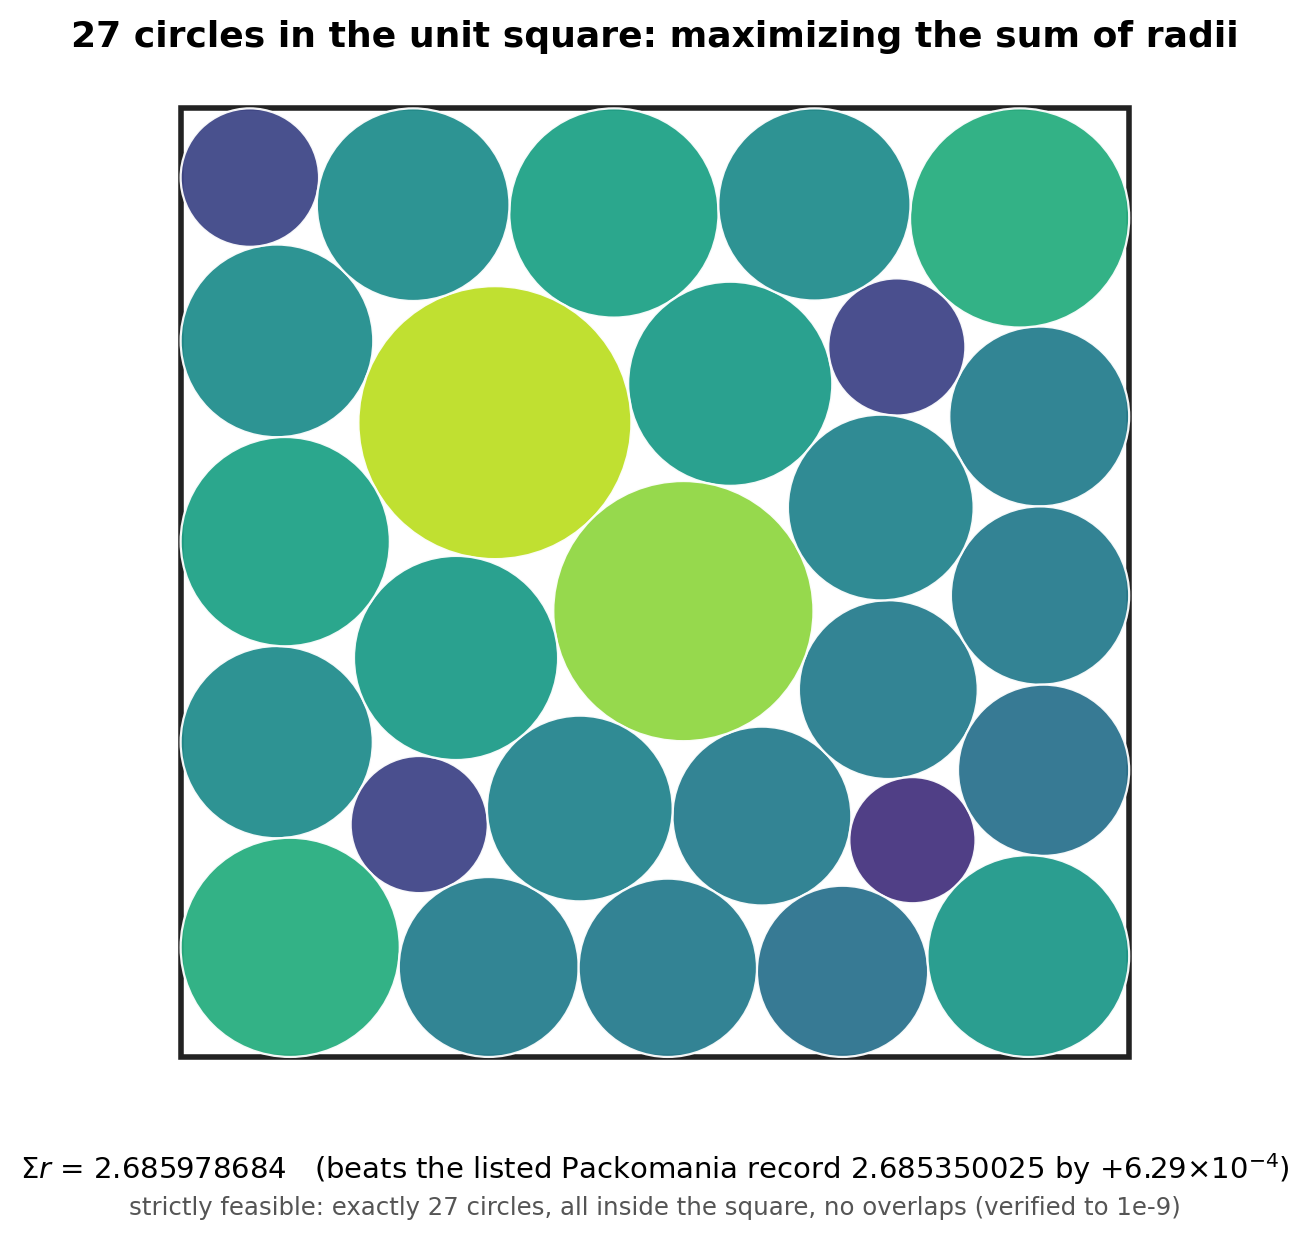
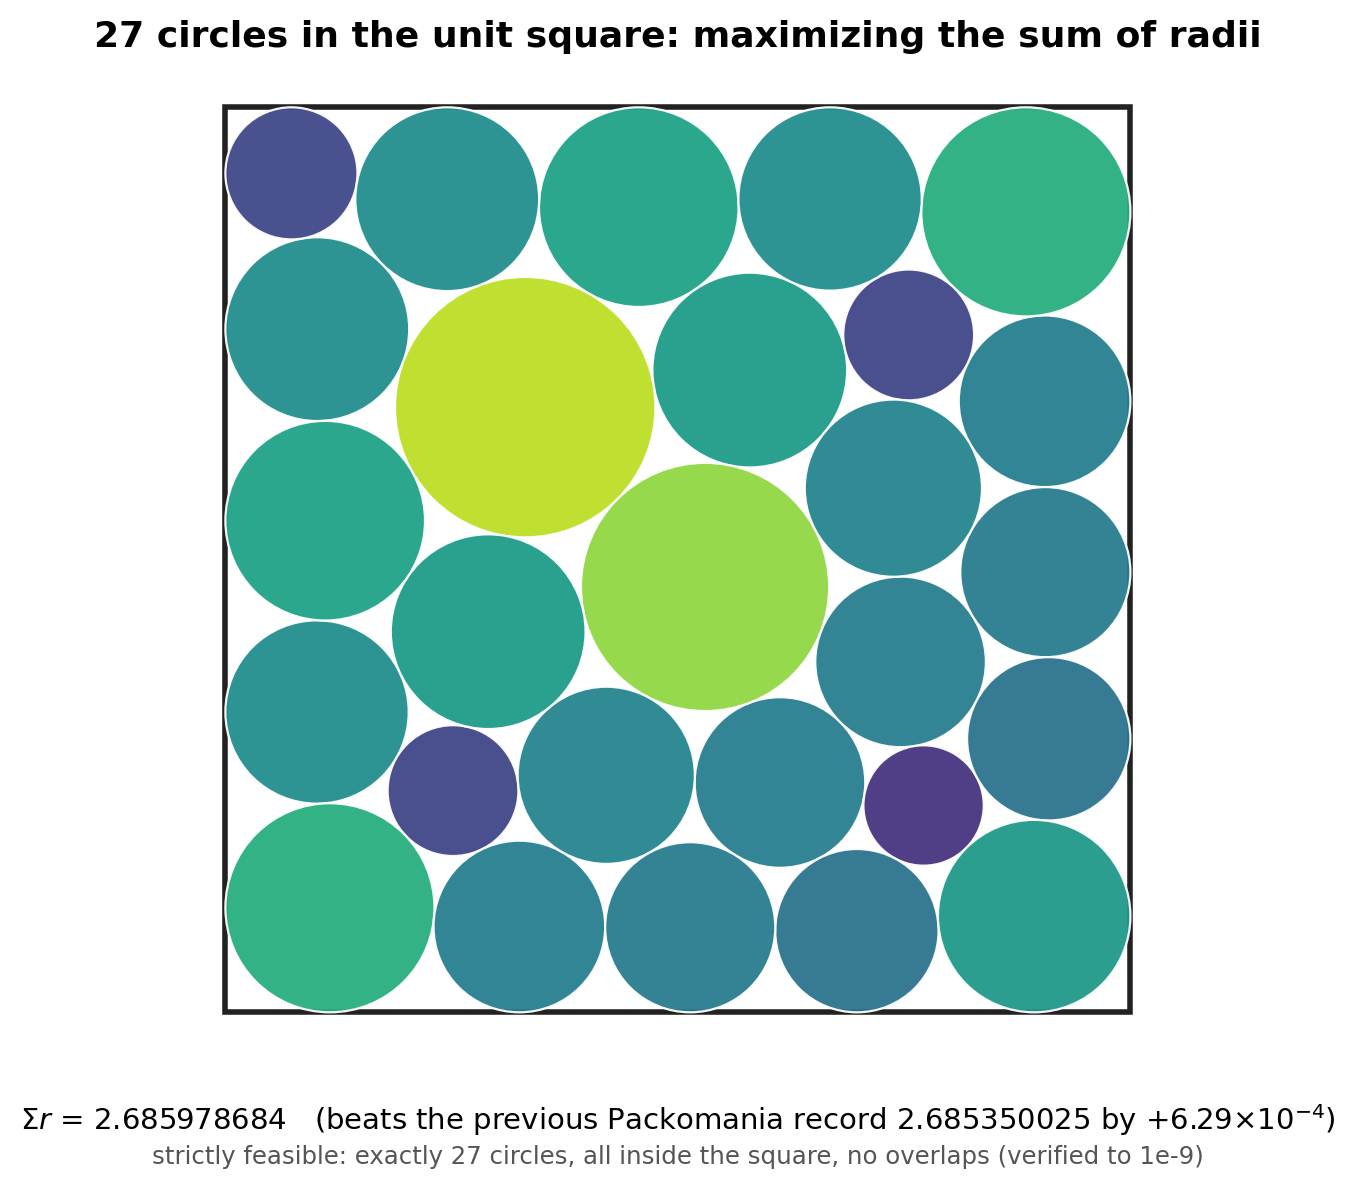
writeup: N=27 record accepted on Packomania; add previous-vs-new comparison figure
- Packomania accepted the N=27 result as the live record (Sigma r 2.685978684198,
  credited to Jason Liang, ref [11], superseding Cantrell's 2011/12 entry, noted
  there for its D1 symmetry). Update the write-up from "prepared a submission" to
  the accepted/listed record; relabel the old value as the "previous record"
  throughout (text + figures); drop the AlphaEvolve/ShinkaEvolve names from the
  scope caveat.
- Replace fig3_emergence.png with the study report's Figure 2 (richer n=27
  emergence: 50-seed spread, best-of-50, seed-1, hit rate), rasterized from
  reports/fig_circle_n27_iters.pdf; make_figs.py no longer regenerates fig3.
- Add fig4_prev_vs_new.png: side-by-side of the previous record value vs the new
  record, both drawn with their shared D1 mirror axis and colored mirror-pairs.
  The previous-value packing (Sigma r 2.685350025, matching Cantrell's value to
  ~1e-11) is one our own solver also reaches; Cantrell's exact coordinates are not
  public. Generator writeup/make_compare_fig.py; data writeup/prev_value_packing.json.
- Main README: make the write-up link prominent ("Start here"); remove em-dashes.

diff --git a/writeup/make_figs.py b/writeup/make_figs.py
@@ -1,8 +1,9 @@
 #!/usr/bin/env python3
 """Write-up visuals for the N=27 circle-packing result. All data read from the repo's own
-committed artifacts (sota/ours/...); the only hand-entered numbers are the per-iteration
-emergence table (fig 3), transcribed from the SI-v2 study report. Run from anywhere:
-    python3 writeup/make_figs.py    ->  regenerates writeup/fig1..3."""
+committed artifacts (sota/ours/...). Generates fig1 (the record packing) and fig2 (the
+N=2..100 sweep vs Packomania). fig3_emergence.png is the SI-v2 study report's Figure 2,
+rasterized in separately and NOT regenerated here. Run from anywhere:
+    python3 writeup/make_figs.py    ->  regenerates writeup/fig1_n27_packing.png and fig2_sweep_gap.png."""
 import json, os, re, math
 import numpy as np
 import matplotlib
@@ -11,12 +12,12 @@ import matplotlib.pyplot as plt
 from matplotlib.patches import Circle, Rectangle
 
 HERE = os.path.dirname(os.path.abspath(__file__))
-SOTA = os.path.dirname(HERE)          # repo root (this script lives in blog/)
+SOTA = os.path.dirname(HERE)          # repo root (this script lives in writeup/)
 OUT = HERE                            # write the figures next to this script
 os.makedirs(OUT, exist_ok=True)
 
-RECORD = 2.685350025228          # Packomania csqv27 baseline record
-WIN    = 2.685978684198          # our verified Sigma r
+RECORD = 2.685350025228          # Packomania csqv27 previous record (Cantrell, 2011/12)
+WIN    = 2.685978684198          # our verified Sigma r (now the listed record)
 
 # ----------------------------------------------------------------------------- fig 1: the packing
 d = json.load(open(f"{SOTA}/sota/ours/wins/csqv27.seed1.json"))
@@ -38,7 +39,7 @@ ax.set_aspect("equal"); ax.axis("off")
 ax.set_title("27 circles in the unit square: maximizing the sum of radii",
              fontsize=13, fontweight="bold", pad=12)
 ax.text(0.5, -0.065,
-        f"$\\Sigma r$ = {WIN:.9f}   (beats the listed Packomania record {RECORD:.9f} by +6.29$\\times10^{{-4}}$)",
+        f"$\\Sigma r$ = {WIN:.9f}   (beats the previous Packomania record {RECORD:.9f} by +6.29$\\times10^{{-4}}$)",
         ha="center", va="top", fontsize=10.5, transform=ax.transAxes)
 ax.text(0.5, -0.11, "strictly feasible: exactly 27 circles, all inside the square, no overlaps (verified to 1e-9)",
         ha="center", va="top", fontsize=8.8, color="#555555", transform=ax.transAxes)
@@ -68,7 +69,7 @@ ax.scatter(Nk[~ties], gk[~ties], s=26, c="#c0504d", zorder=3, label="below recor
 ax.scatter(Nk[ties], gk[ties], s=30, c="#4f81bd", zorder=3, label="tie (matches best-known, $\\sim10^{-11}$)")
 win_i = np.where(Nk == 27)[0][0]
 ax.scatter([27], [gk[win_i]], s=220, marker="*", c="#2e8b57", edgecolor="black",
-           lw=0.7, zorder=5, label="N=27: beats the listed record")
+           lw=0.7, zorder=5, label="N=27: beats the previous record")
 ax.annotate("N = 27  WIN", xy=(27, gk[win_i]), xytext=(34, 0.28),
             fontsize=10.5, fontweight="bold", color="#2e8b57",
             arrowprops=dict(arrowstyle="->", color="#2e8b57", lw=1.4))
@@ -84,49 +85,6 @@ plt.savefig(f"{OUT}/fig2_sweep_gap.png", dpi=200, bbox_inches="tight")
 plt.close()
 print(f"fig2: {len(Nk)} sizes plotted; ties={ties.sum()}; N=27 gap={gk[win_i]:+.4f}%")
 
-# ----------------------------------------------------------------------------- fig 3: emergence over iterations
-# transcribed from the SI-v2 report, Table 'Per-version n=27 outcomes over 50 seeds (120s each)'
-it       = [1, 2, 3, 4, 5]
-best     = [2.685979]*5                   # best of 50 seeds -> the record-beating win (constant)
-median   = [2.685157]*5                   # typical single run (constant, just below the record)
-hit_pct  = [10, 10, 12, 14, 14]           # % of 50 seeds that beat the record
-xlab = ["iter 1\n$2.48", "iter 2\n$5.95", "iter 3\n$9.79", "iter 4\n$14.82", "iter 5-10\n$21.36"]
-
-fig, (axA, axB) = plt.subplots(2, 1, figsize=(8.8, 6.4), sharex=True,
-                               gridspec_kw={"height_ratios": [2.1, 1.0], "hspace": 0.12})
-
-# top panel: Sigma r vs iteration (direct right-side labels; no in-plot legend to obscure the data)
-axA.axhline(WIN, color="#2e8b57", ls=":", lw=1.0, alpha=0.4, zorder=1)
-axA.plot(it, best, "-o", color="#2e8b57", lw=2.6, ms=9, zorder=5)
-axA.axhline(RECORD, color="#c0504d", ls="--", lw=1.7, zorder=2)
-axA.plot(it, median, "-s", color="#7f7f7f", lw=1.8, ms=6, zorder=4)
-axA.text(5.18, WIN,    "best of 50 starts\n= the WIN  2.685979", color="#2e8b57",
-         va="center", fontsize=8.6, fontweight="bold")
-axA.text(5.18, RECORD + 0.00003, "record  2.685350", color="#c0504d", va="bottom", fontsize=8.6)
-axA.text(5.18, median[0], "median run  2.685157\n(a typical start\ndoes not beat it)", color="#5f5f5f",
-         va="center", fontsize=8.2)
-axA.annotate("present from\niteration 1", xy=(1, WIN), xytext=(1.75, 2.685740),
-             fontsize=9, color="#2e8b57", ha="center",
-             arrowprops=dict(arrowstyle="->", color="#2e8b57", lw=1.3))
-axA.set_ylim(2.68500, 2.68612)
-axA.set_xlim(0.5, 7.0)
-axA.set_ylabel("sum of radii  $\\Sigma r$", fontsize=11)
-axA.set_title("The record-beating capability appears early; more self-improvement buys reliability, not the peak",
-              fontsize=11.5, fontweight="bold")
-axA.grid(True, axis="y", ls=":", alpha=0.35)
-
-# bottom panel: per-seed hit rate
-axB.bar(it, hit_pct, width=0.55, color="#4f81bd", alpha=0.85)
-for x, h in zip(it, hit_pct):
-    axB.text(x, h + 0.5, f"{h}%", ha="center", color="#28527a", fontsize=9)
-axB.set_ylim(0, 20)
-axB.set_xlim(0.5, 7.0)
-axB.set_ylabel("hit rate\n(% of 50 starts\nbeating record)", fontsize=9.5)
-axB.set_xticks(it); axB.set_xticklabels(xlab, fontsize=9.2)
-axB.set_xlabel("solver version (self-improvement iteration)   ·   cumulative $ spent improving the solver",
-               fontsize=10.3, x=0.36)
-axB.grid(True, axis="y", ls=":", alpha=0.35)
-plt.savefig(f"{OUT}/fig3_emergence.png", dpi=200, bbox_inches="tight")
-plt.close()
-print("fig3: emergence written")
-print("ALL FIGURES WRITTEN TO", OUT)
+# fig 3 (writeup/fig3_emergence.png) is the SI-v2 study report's Figure 2, rasterized in
+# separately from reports/fig_circle_n27_iters.pdf and NOT regenerated here.
+print("fig1 + fig2 written to", OUT)

diff --git a/writeup/make_compare_fig.py b/writeup/make_compare_fig.py
@@ -1,0 +1,72 @@
+#!/usr/bin/env python3
+"""Side-by-side N=27: the previous record value vs our new record, both drawn with their
+D1 mirror axis (X+Y=1) and mirror-pairs colored. Left = a packing at the previous record's
+Sigma r (2.685350) found by our own solver (seed 1); Cantrell's exact 2011/12 coordinates
+are not public, so this stands in for the previous optimum at that value. Right = our record.
+    python3 writeup/make_compare_fig.py  ->  writeup/fig4_prev_vs_new.png"""
+import json, os
+import numpy as np
+import matplotlib
+matplotlib.use("Agg")
+import matplotlib.pyplot as plt
+from matplotlib.patches import Circle, Rectangle
+
+HERE = os.path.dirname(os.path.abspath(__file__))
+SOTA = os.path.dirname(HERE)
+
+def load(p):
+    d = json.load(open(p)); return np.array(d["circles"]), d["sum_radii"]
+
+prev, sp = load(f"{HERE}/prev_value_packing.json")
+ours, so = load(f"{SOTA}/sota/ours/wins/csqv27.seed1.json")
+
+def pairs_axis(C, tol=1.5e-3):
+    """Mirror pairs and on-axis circles for the reflection (x,y)->(1-y,1-x) [axis X+Y=1]."""
+    n = len(C); used = [False]*n; pairs = []; axis = []
+    for i in range(n):
+        if used[i]: continue
+        xi, yi, ri = C[i]
+        if abs(xi + yi - 1) < tol:
+            axis.append(i); used[i] = True; continue
+        for j in range(n):
+            if used[j] or j == i: continue
+            if abs(C[j,0]-(1-yi)) < tol and abs(C[j,1]-(1-xi)) < tol and abs(C[j,2]-ri) < tol:
+                pairs.append((i, j)); used[i] = used[j] = True; break
+        else:
+            axis.append(i); used[i] = True
+    return pairs, axis
+
+def draw(ax, C, title, sub):
+    pairs, axis = pairs_axis(C)
+    ax.add_patch(Rectangle((0, 0), 1, 1, fill=False, lw=2.0, ec="#222222"))
+    pal = plt.cm.tab20(np.linspace(0, 1, max(len(pairs), 1)))
+    col = {}
+    for k, (i, j) in enumerate(pairs):
+        col[i] = pal[k]; col[j] = pal[k]
+    for i, (x, y, r) in enumerate(C):
+        c = col.get(i, (0.72, 0.72, 0.72, 1.0))     # on-axis circles: grey
+        ax.add_patch(Circle((x, y), r, facecolor=c, edgecolor="white", lw=0.7, alpha=0.92))
+    ax.plot([0, 1], [1, 0], color="#c0392b", ls="--", lw=1.5, zorder=6)     # mirror axis X+Y=1
+    ax.text(0.90, 0.14, "mirror axis", color="#c0392b", fontsize=8.5, rotation=-45,
+            ha="center", va="center", zorder=7)
+    ax.set_xlim(-0.03, 1.03); ax.set_ylim(-0.03, 1.03); ax.set_aspect("equal"); ax.axis("off")
+    ax.set_title(title, fontsize=12.5, fontweight="bold", pad=8)
+    ax.text(0.5, -0.055, sub, ha="center", va="top", fontsize=10, transform=ax.transAxes)
+    return len(pairs), len(axis)
+
+fig, axes = plt.subplots(1, 2, figsize=(12.6, 6.9))
+pa = draw(axes[0], prev, "Previous record value",
+          f"$\\Sigma r$ = {sp:.9f}")
+pb = draw(axes[1], ours, "New record (now listed on Packomania)",
+          f"$\\Sigma r$ = {so:.9f}   (+6.29$\\times10^{{-4}}$)")
+fig.suptitle("N=27: the previous record value vs the new record (both D1-symmetric; mirror-pairs share a color)",
+             fontsize=12.5, fontweight="bold", y=0.98)
+fig.text(0.5, 0.03,
+         "Left: a packing at the previous record's $\\Sigma r$ (2.685350), found by our own solver; "
+         "Cantrell's exact 2011/12 coordinates are not public. Right: our record packing.",
+         ha="center", fontsize=8.6, color="#555555")
+plt.tight_layout(rect=[0, 0.05, 1, 0.95])
+plt.savefig(f"{HERE}/fig4_prev_vs_new.png", dpi=200, bbox_inches="tight")
+plt.close()
+print(f"prev: {pa[0]} pairs + {pa[1]} on-axis;  ours: {pb[0]} pairs + {pb[1]} on-axis")
+print("wrote", f"{HERE}/fig4_prev_vs_new.png")

diff --git a/writeup/README.md b/writeup/README.md
@@ -2,15 +2,15 @@
 
 *[Cognizant AI Lab](https://www.cognizant.com/us/en/ai-lab) · research note*
 
-**The problem:** fit N circles of any sizes into a square, without overlaps, and make the total of all their radii (the "sum of radii") as large as possible. It sounds small, but it is a genuinely hard optimization problem that has become a public benchmark for AI. **What happened:** an AI coding agent at Cognizant AI Lab that repeatedly rewrites and re-tests its own solver found a 27-circle arrangement that beats the value listed in Packomania, the standard reference table for this problem.
+**The problem:** fit N circles of any sizes into a square, without overlaps, and make the total of all their radii (the "sum of radii") as large as possible. It sounds small, but it is a genuinely hard optimization problem that has become a public benchmark for AI. **What happened:** an AI coding agent at Cognizant AI Lab that repeatedly rewrites and re-tests its own solver found a 27-circle arrangement that is now the listed record in Packomania, the standard reference table for this problem, beating an entry that had stood since 2011/12.
 
 ---
 
 ## Key takeaways
 
-- A self-improving AI coding agent at Cognizant AI Lab wrote an optimizer that found a **new best-known** packing of 27 circles in a square, beating the value listed in Packomania, the field's authoritative reference table.
+- A self-improving AI coding agent at Cognizant AI Lab wrote an optimizer that found a **new best-known** packing of 27 circles in a square. It is **now the listed record in Packomania** (the field's authoritative reference table), beating a previous entry that had stood since 2011/12.
 
-- The new configuration has sum of radii **2.685978684198** versus the listed **2.685350025228**, an improvement of **+0.000628658970 (+0.023%)**. It is a fixed, strictly-feasible artifact that anyone can independently verify from its coordinates.
+- The new configuration has sum of radii **2.685978684198** versus the previous record **2.685350025228**, an improvement of **+0.000628658970 (+0.023%)**. It is a fixed, strictly-feasible artifact that anyone can independently verify from its coordinates.
 
 - **Honest scope:** the entry we beat is a *long-standing classical entry* in Packomania's table (a 2011/12 result), **NOT** one of the recent AI-optimized results from systems like Google DeepMind's AlphaEvolve or Sakana AI's ShinkaEvolve. On the famous N=26 case we *tie* the recent AI-optimized best-known value there (2.635983); we do not beat it.
 
@@ -32,7 +32,7 @@ We took a solver that one of our self-improvement experiments produced and ran i
 
 ![Our solver vs the Packomania records across N=2..100](fig2_sweep_gap.png)
 
-*Our solver vs the authoritative Packomania records across N=2 to N=100. It ties 26 records at small/mid sizes, trails on large boards (our compute budget, not a ceiling), and beats the listed record at N=27 (a small but real +0.023%).*
+*Our solver vs the authoritative Packomania records across N=2 to N=100. It ties 26 records at small/mid sizes, trails on large boards (our compute budget, not a ceiling), and beats the previous record at N=27 (a small but real +0.023%, now the listed record).*
 
 For small and mid-sized boards the solver reproduces the known optima essentially exactly (matching 26 of them to about one part in 100 billion). For large boards it falls short of the heavily hand-tuned records, from a fraction of a percent up to about 2.3% (largest at N=92); on one size, N=97, a single run failed to return a valid packing at all. But those gaps reflect our modest compute budget, not a ceiling of the method. And at one size, it did something the reference table had not: it found a better packing.
 
@@ -45,7 +45,7 @@ At N=27, our solver produced a strictly-feasible packing with sum of radii:
 | | sum of radii |
 |---|---|
 | **ours** | **2.685978684198** |
-| listed (Packomania's standing record) | 2.685350025228 |
+| previous record (Cantrell, 2011/12) | 2.685350025228 |
 | **gain** | **+0.000628658970  (+0.023%)** |
 
 ![The record-beating N=27 packing](fig1_n27_packing.png)
@@ -56,7 +56,11 @@ At N=27, our solver produced a strictly-feasible packing with sum of radii:
 
 The scope matters, and we state it plainly. Packomania lists, for each N, the best value anyone has submitted. The N=27 entry we improved is a *long-standing classical entry*, a 2011/12 result (attributed to D. W. Cantrell on the sci.math forum) that predates the recent AI systems, not one of the AI-optimized entries. On the most-studied case, N=26 (the size AlphaEvolve made famous as its showcase result), the best-known value is 2.635983, a recent AI-optimized entry (credited to Haowei Lin, 2026); there, our agent *matches* that number but does not beat it. So this is a genuine, verifiable improvement to a standing reference value, not a claim to have dethroned AlphaEvolve or ShinkaEvolve. Small, but real, and the kind of thing that, until recently, only a human expert or a purpose-built research program would produce.
 
-We have prepared a submission of the N=27 packing to Packomania's maintainer for review; the artifact stands on its own regardless of how it was produced.
+The N=27 packing is now the listed record on [Packomania](https://www.packomania.com/csqv/csqv.html): it was accepted and credited to Jason Liang (reference [11]), superseding the entry by David Cantrell, and the site notes its "remarkable D1 symmetry" (a single mirror axis). The artifact stands on its own regardless of how it was produced.
+
+![Previous record value vs the new record](fig4_prev_vs_new.png)
+
+*The previous record value (left, Σr = 2.685350) and our new record (right, Σr = 2.685979), both with the same D1 mirror symmetry (a single diagonal axis; mirror-pairs share a color). The two near-optimal arrangements are similar, but ours squeezes out slightly more total radius. The left is a packing at the old value that our own solver also reaches; Cantrell's exact 2011/12 coordinates are not public, so it stands in for the previous optimum.*
 
 ---
 
@@ -84,7 +88,7 @@ Because the search uses random restarts, we could ask a sharp question: at which
 
 ![When the capability appeared, and at what cost](fig3_emergence.png)
 
-*The record-beating packing (green, best of 50 starts) is present from iteration 1; the median run (grey) sits just below the record; more self-improvement lifts the per-start hit rate 10% → 14%: reliability, not the peak.*
+*When a record-capable N=27 solver emerges (the radical self-modifying arm; 120 s/seed, 50 seeds). Top: the best of 50 random starts (blue) reaches the record-beating win from iteration 1, with the full 50-seed spread in grey and the exact seed-1 layout we submitted (red) first winning at iteration 4. Bottom: the per-seed hit rate rises from 10% to 14% with more self-improvement, buying reliability, not a higher peak.*
 
 The record-beating packing is reachable from the *very first* iteration, the one that cost about $2.48. Every later version reaches the identical winning configuration too; roughly one in seven to one in ten random starts lands on it. What ~$12 more of self-improvement bought was not a higher peak but better *reliability*: the per-start hit rate rose from 10% to 14%. (The exact coordinates we submitted are one such run, which first turned up at iteration 4, about $15 of cumulative cost; it is the same winning value, not a better one.) The median single run, tellingly, lands just *below* the record, so the win comes from a good method run a few times, not from luck.
 
@@ -108,7 +112,7 @@ Three implications for enterprises:
 
 ## Honest caveats (and how to check us)
 
-- The N=27 result is a real, independently-verifiable improvement to the *listed baseline*; it is not a claim to beat the AI-optimized AlphaEvolve/ShinkaEvolve entries, and on N=26 we tie rather than beat them.
+- The N=27 result improves on the previously listed record (now the accepted record); it does not claim to beat the recent AI-optimized entries, and on N=26 we tie rather than beat the best-known.
 - Each of the six experimental arms is a single run; cross-arm differences (e.g., which "values" arm won) are directional, not statistically powered.
 - The search is stochastic and wall-clock-budgeted, so re-running does not guarantee re-finding a given win on one seed (one random starting layout), but the saved configuration is fixed and stays valid forever.
 - The solver is not uniformly strong: on large boards it trails the records by up to ~2.3%, and on one size (N=97) a single run failed to produce any valid packing (it is omitted from the sweep figure). The N=27 result is a specific, verified win, not a claim of across-the-board superiority.

diff --git a/README.md b/README.md
@@ -6,6 +6,10 @@ experiment and run across a range of N, compared to the authoritative **Packoman
 > **Pack N variable-sized circles in a unit square so that no two overlap and all stay inside the square,
 > maximizing the sum of the radii Σr**, the AlphaEvolve / ShinkaEvolve benchmark (Packomania's `csqv` table).
 
+### 📄 Start here: **[the write-up](writeup/README.md)**
+
+A short, figure-rich explainer of what the problem is, the record we beat, how a self-improving AI agent found it, and why it matters. **[Read it → `writeup/README.md`](writeup/README.md)**
+
 ## Result
 
 A sweep of N=2..100 (120s per N, seed 1) **reproduces 26 of the known records to within 4e-11** (worst
@@ -19,12 +23,6 @@ beat).
 N=92 at 2.29%. The sweep covered 99 sizes but produced only **98 usable packings**, failing outright at
 N=97 (see [Known issues](#known-issues)). Per-N detail is in `sota/ours/comparison.md`; **every claimed win
 is independently re-verifiable from its `.pck` with `solver/verify_pck.py`.**
-
-## Write-up
-
-A narrative explainer of this result — what the problem is, what record was beaten, how a
-self-improving AI agent produced the solver, and why it matters — with figures:
-**[`writeup/`](writeup/README.md)**.
 
 ## Verify the N=27 result
 
